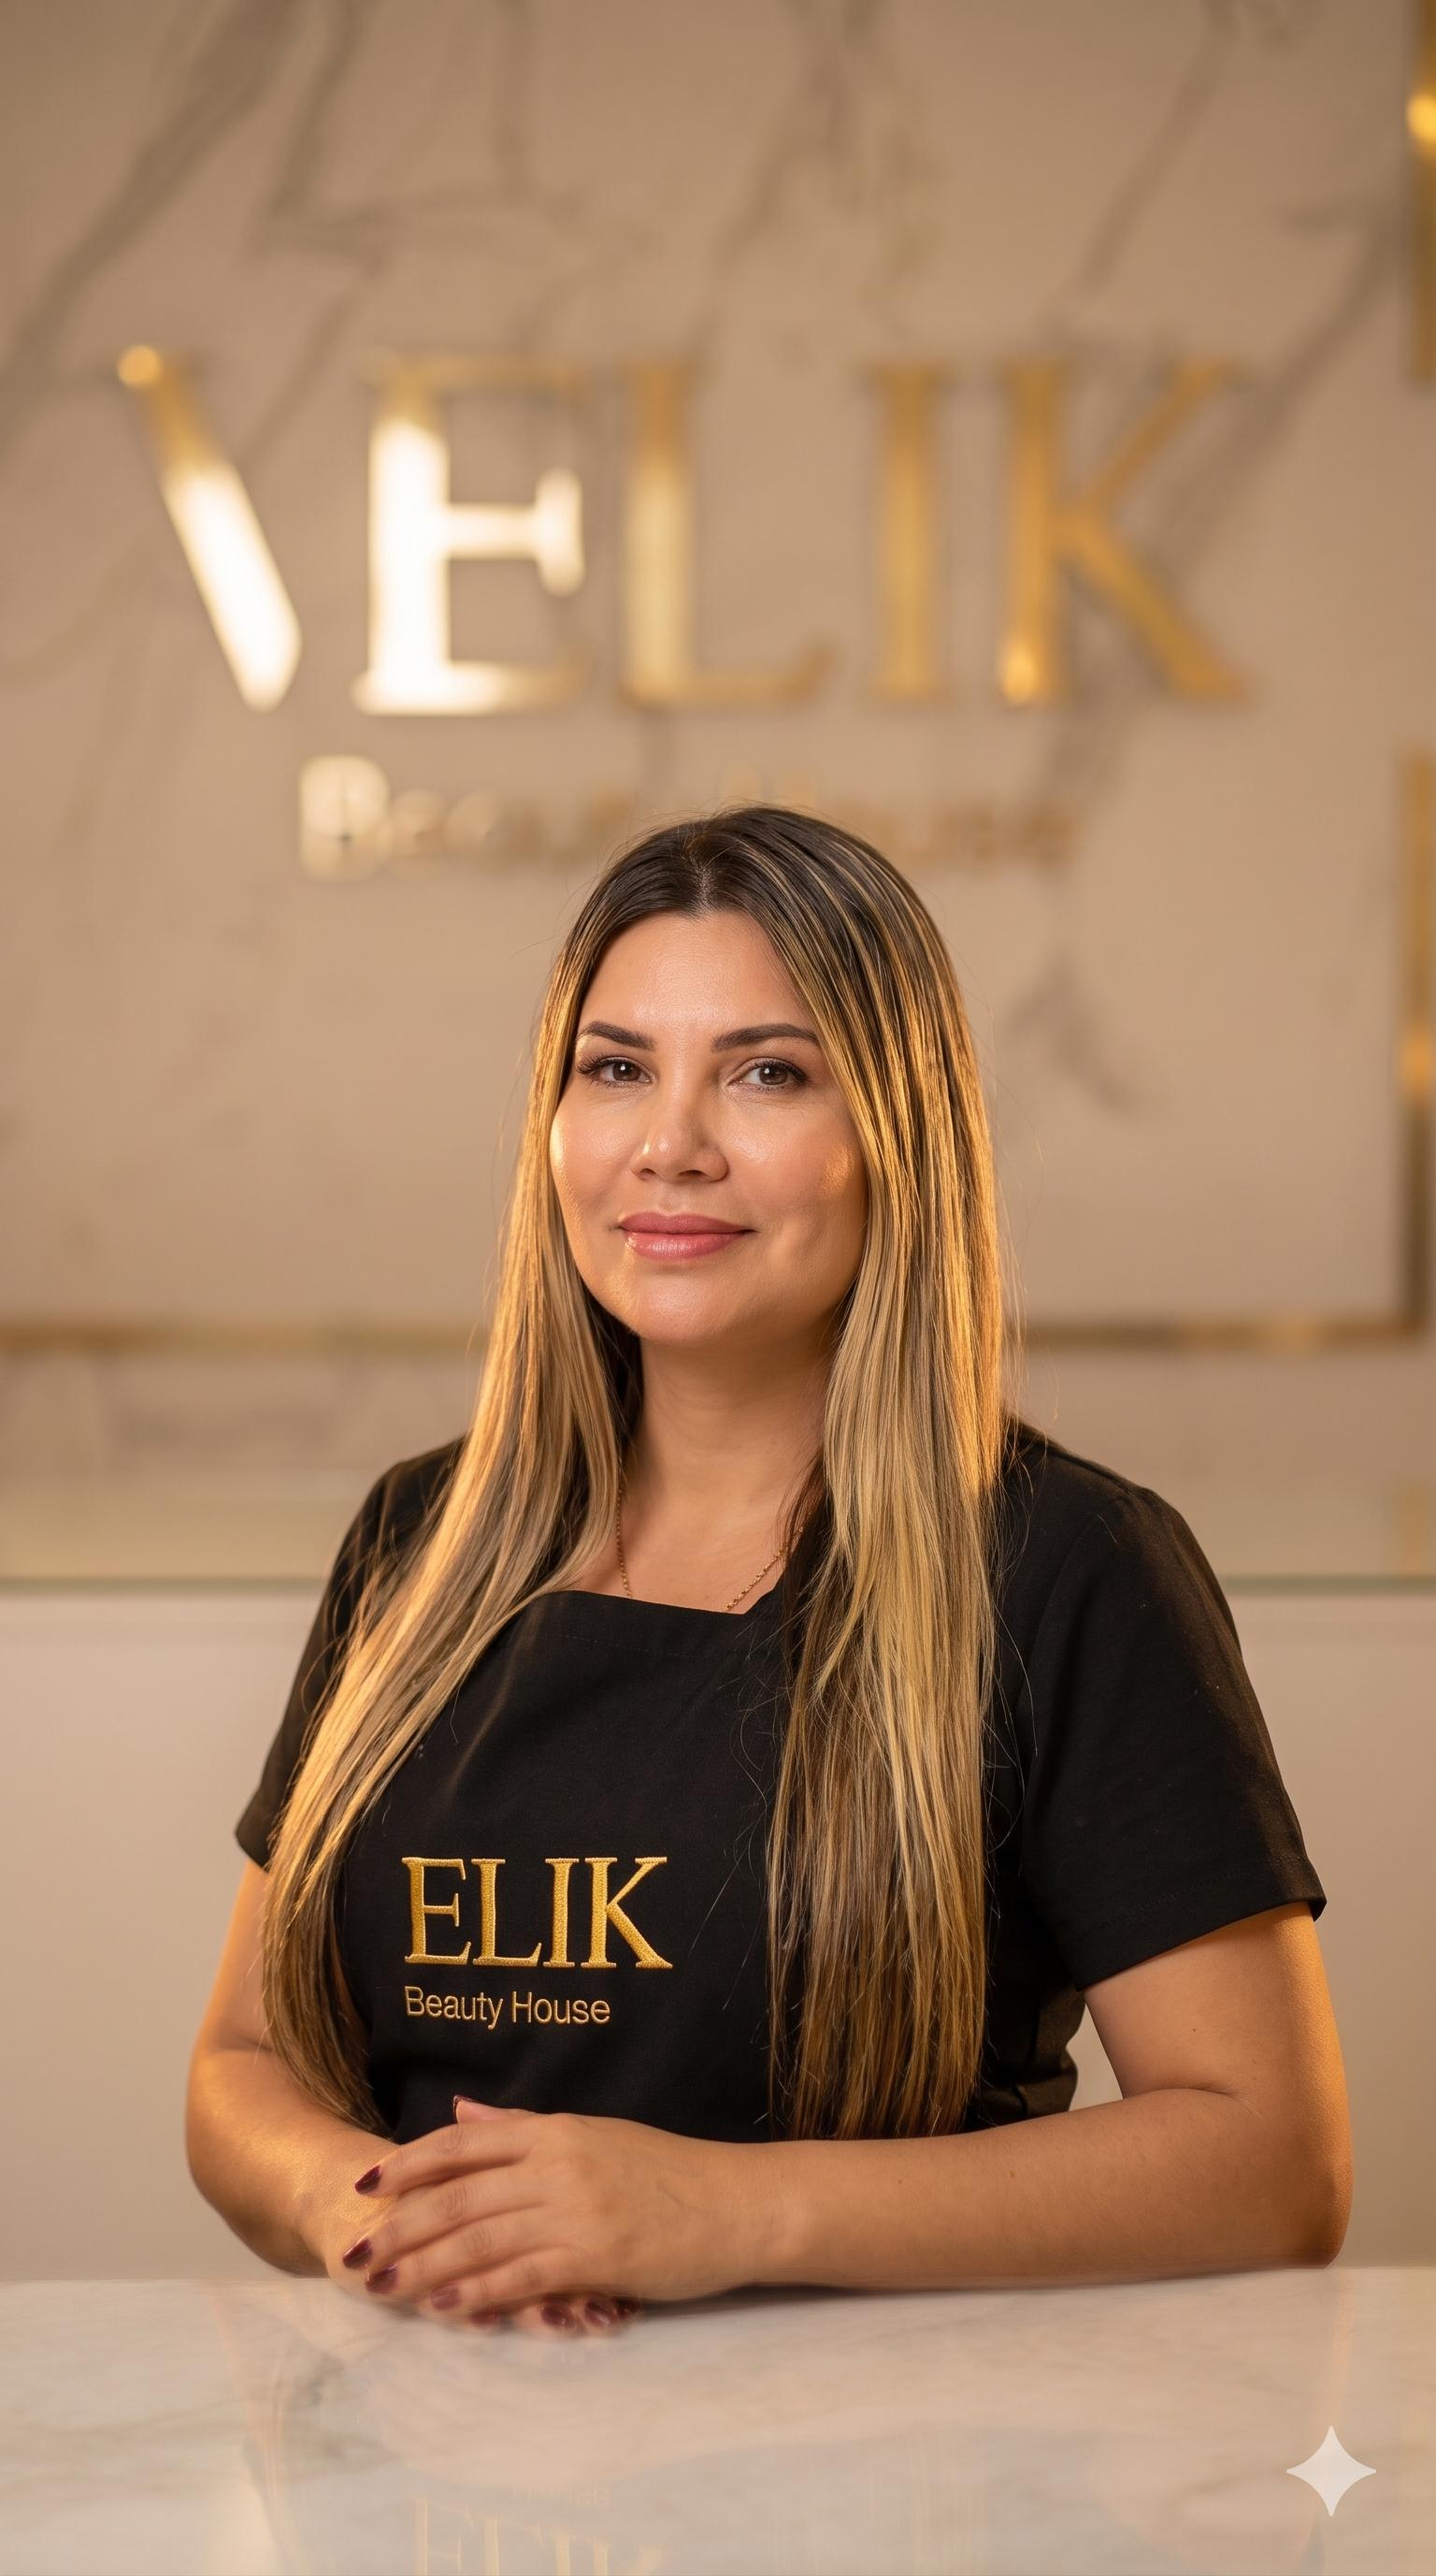
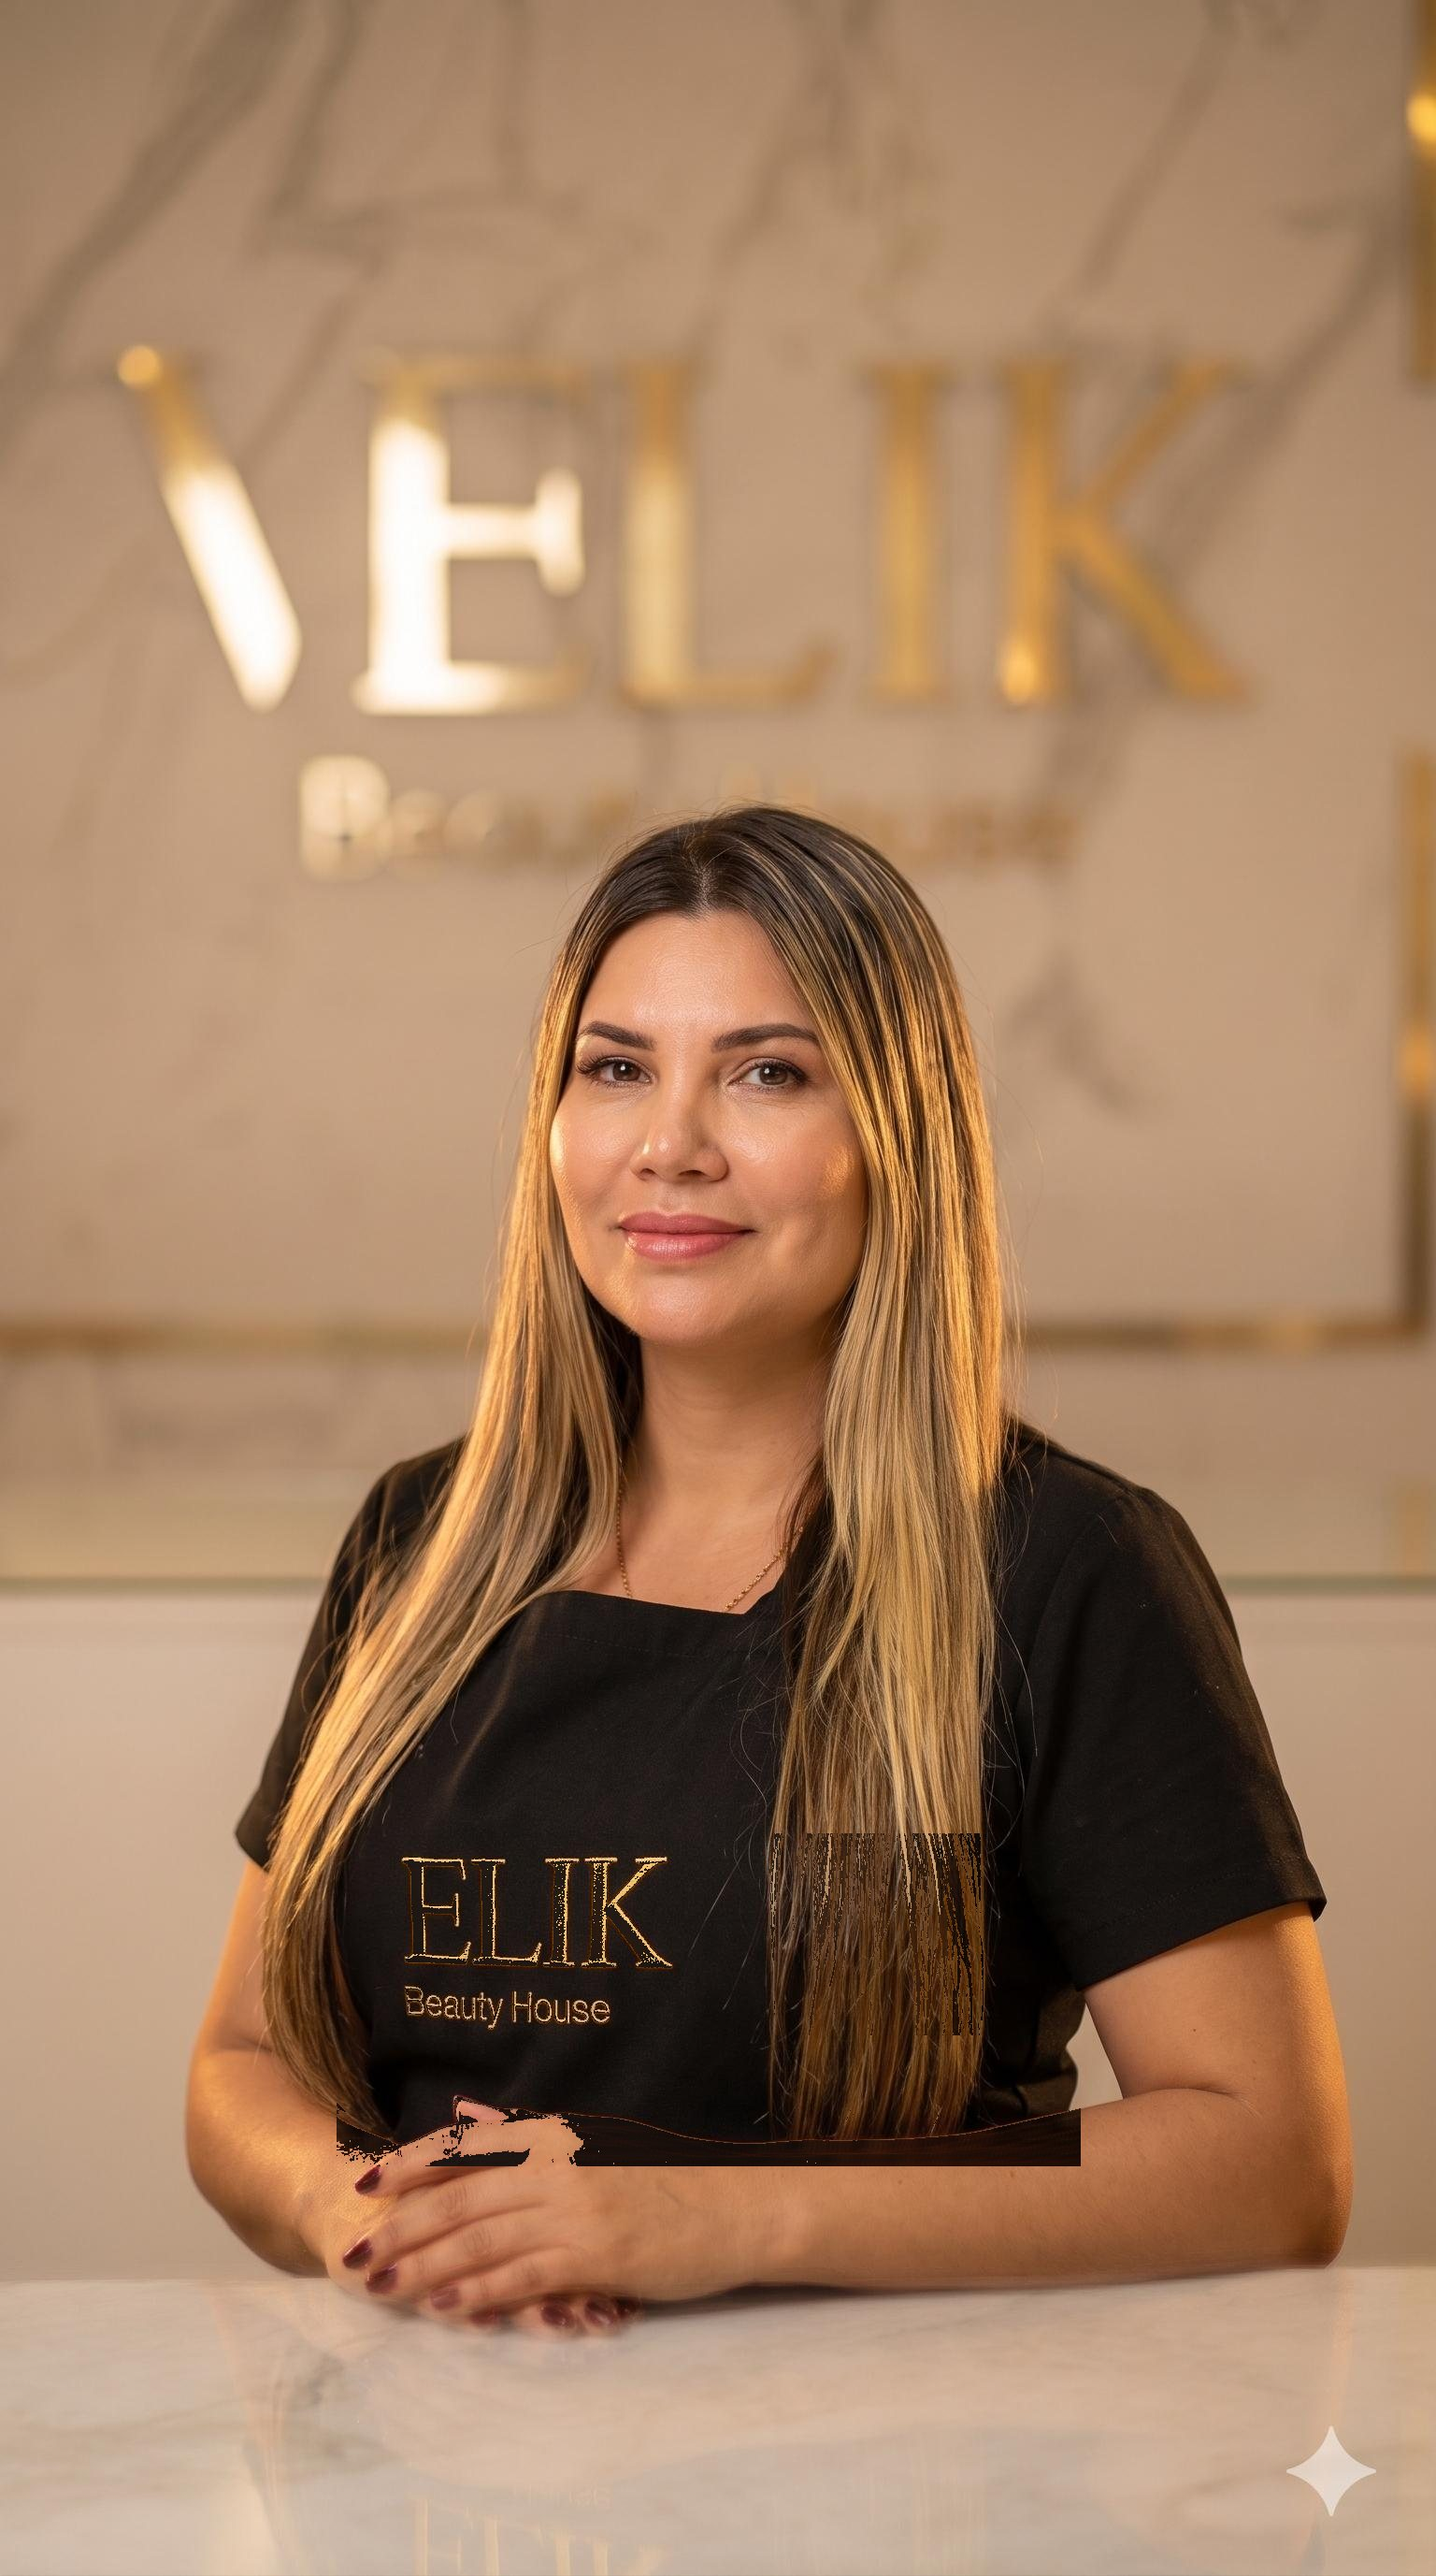
fix: move team badge so it doesnt cover face

diff --git a/src/components/Philosophy.tsx b/src/components/Philosophy.tsx
@@ -69,7 +69,7 @@ export function Philosophy() {
             </div>
 
             {/* Floating Detail */}
-            <div className="absolute -bottom-8 -left-4 sm:-left-8 bg-black text-white p-5 sm:p-6 rounded-[25px] sm:rounded-[30px] shadow-2xl animate-float z-20">
+            <div className="absolute -bottom-20 left-1/2 -translate-x-1/2 bg-black text-white p-5 sm:p-6 rounded-[25px] sm:rounded-[30px] shadow-2xl animate-float z-20 w-max text-center">
               <p className="text-lg sm:text-2xl font-black tracking-tighter italic mb-1">Nuestro Equipo</p>
               <p className="text-[8px] sm:text-[9px] font-bold uppercase tracking-[0.2em] text-gray-400">Artistas Especializadas</p>
             </div>
